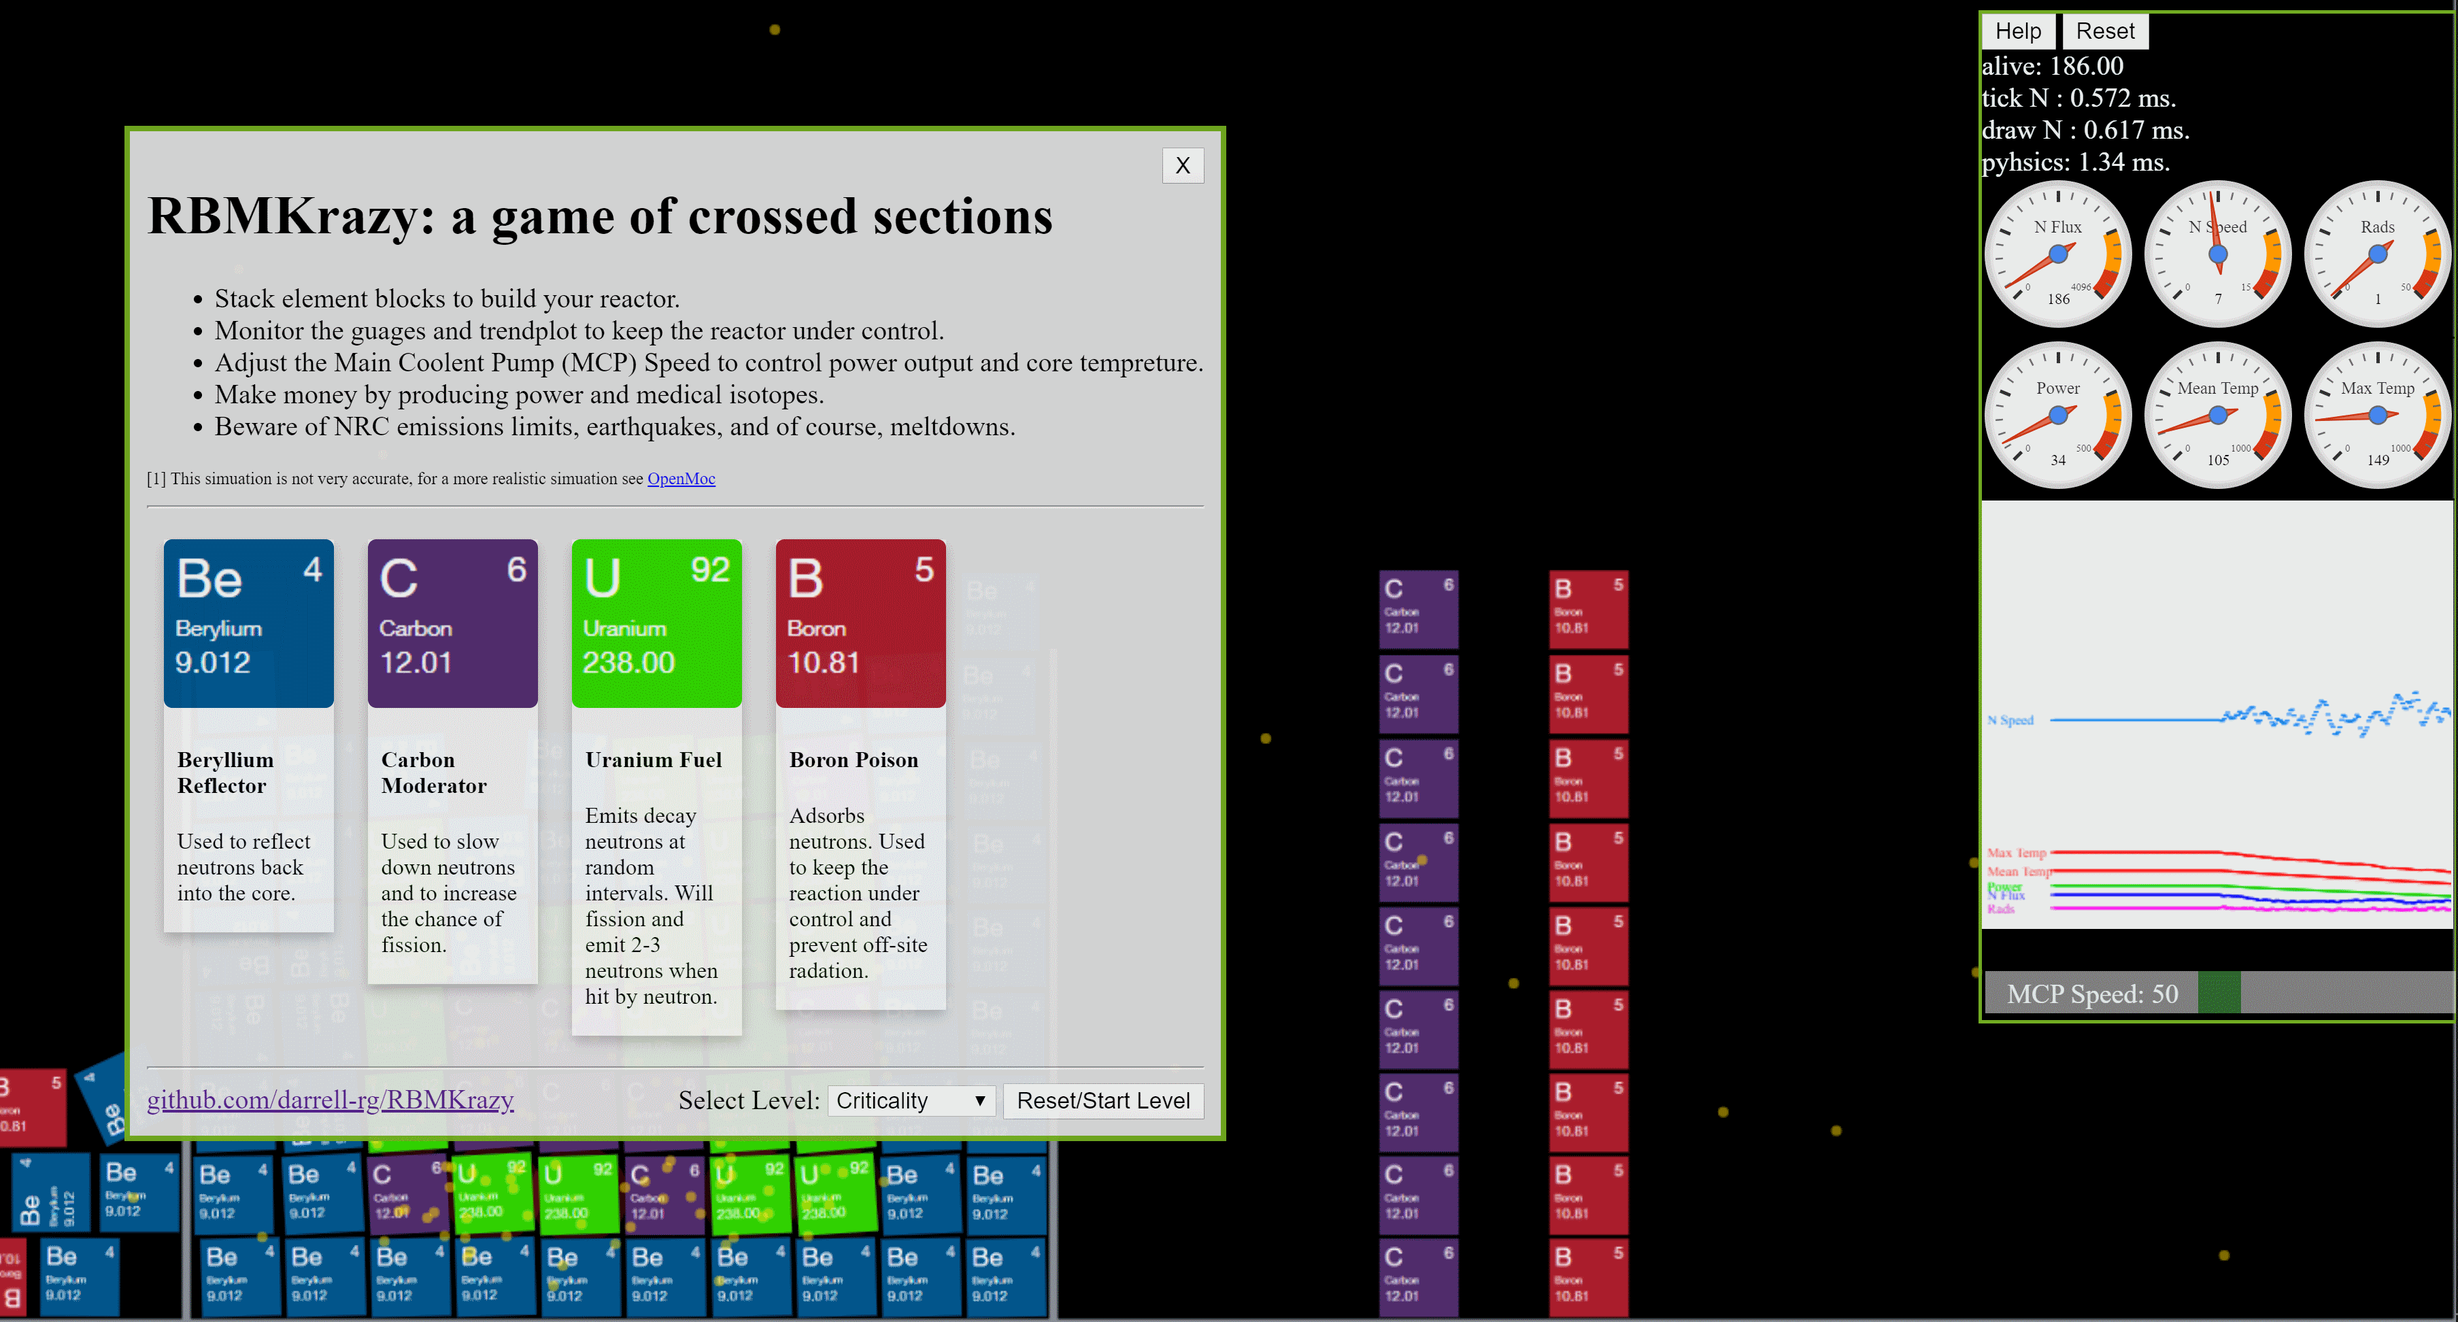
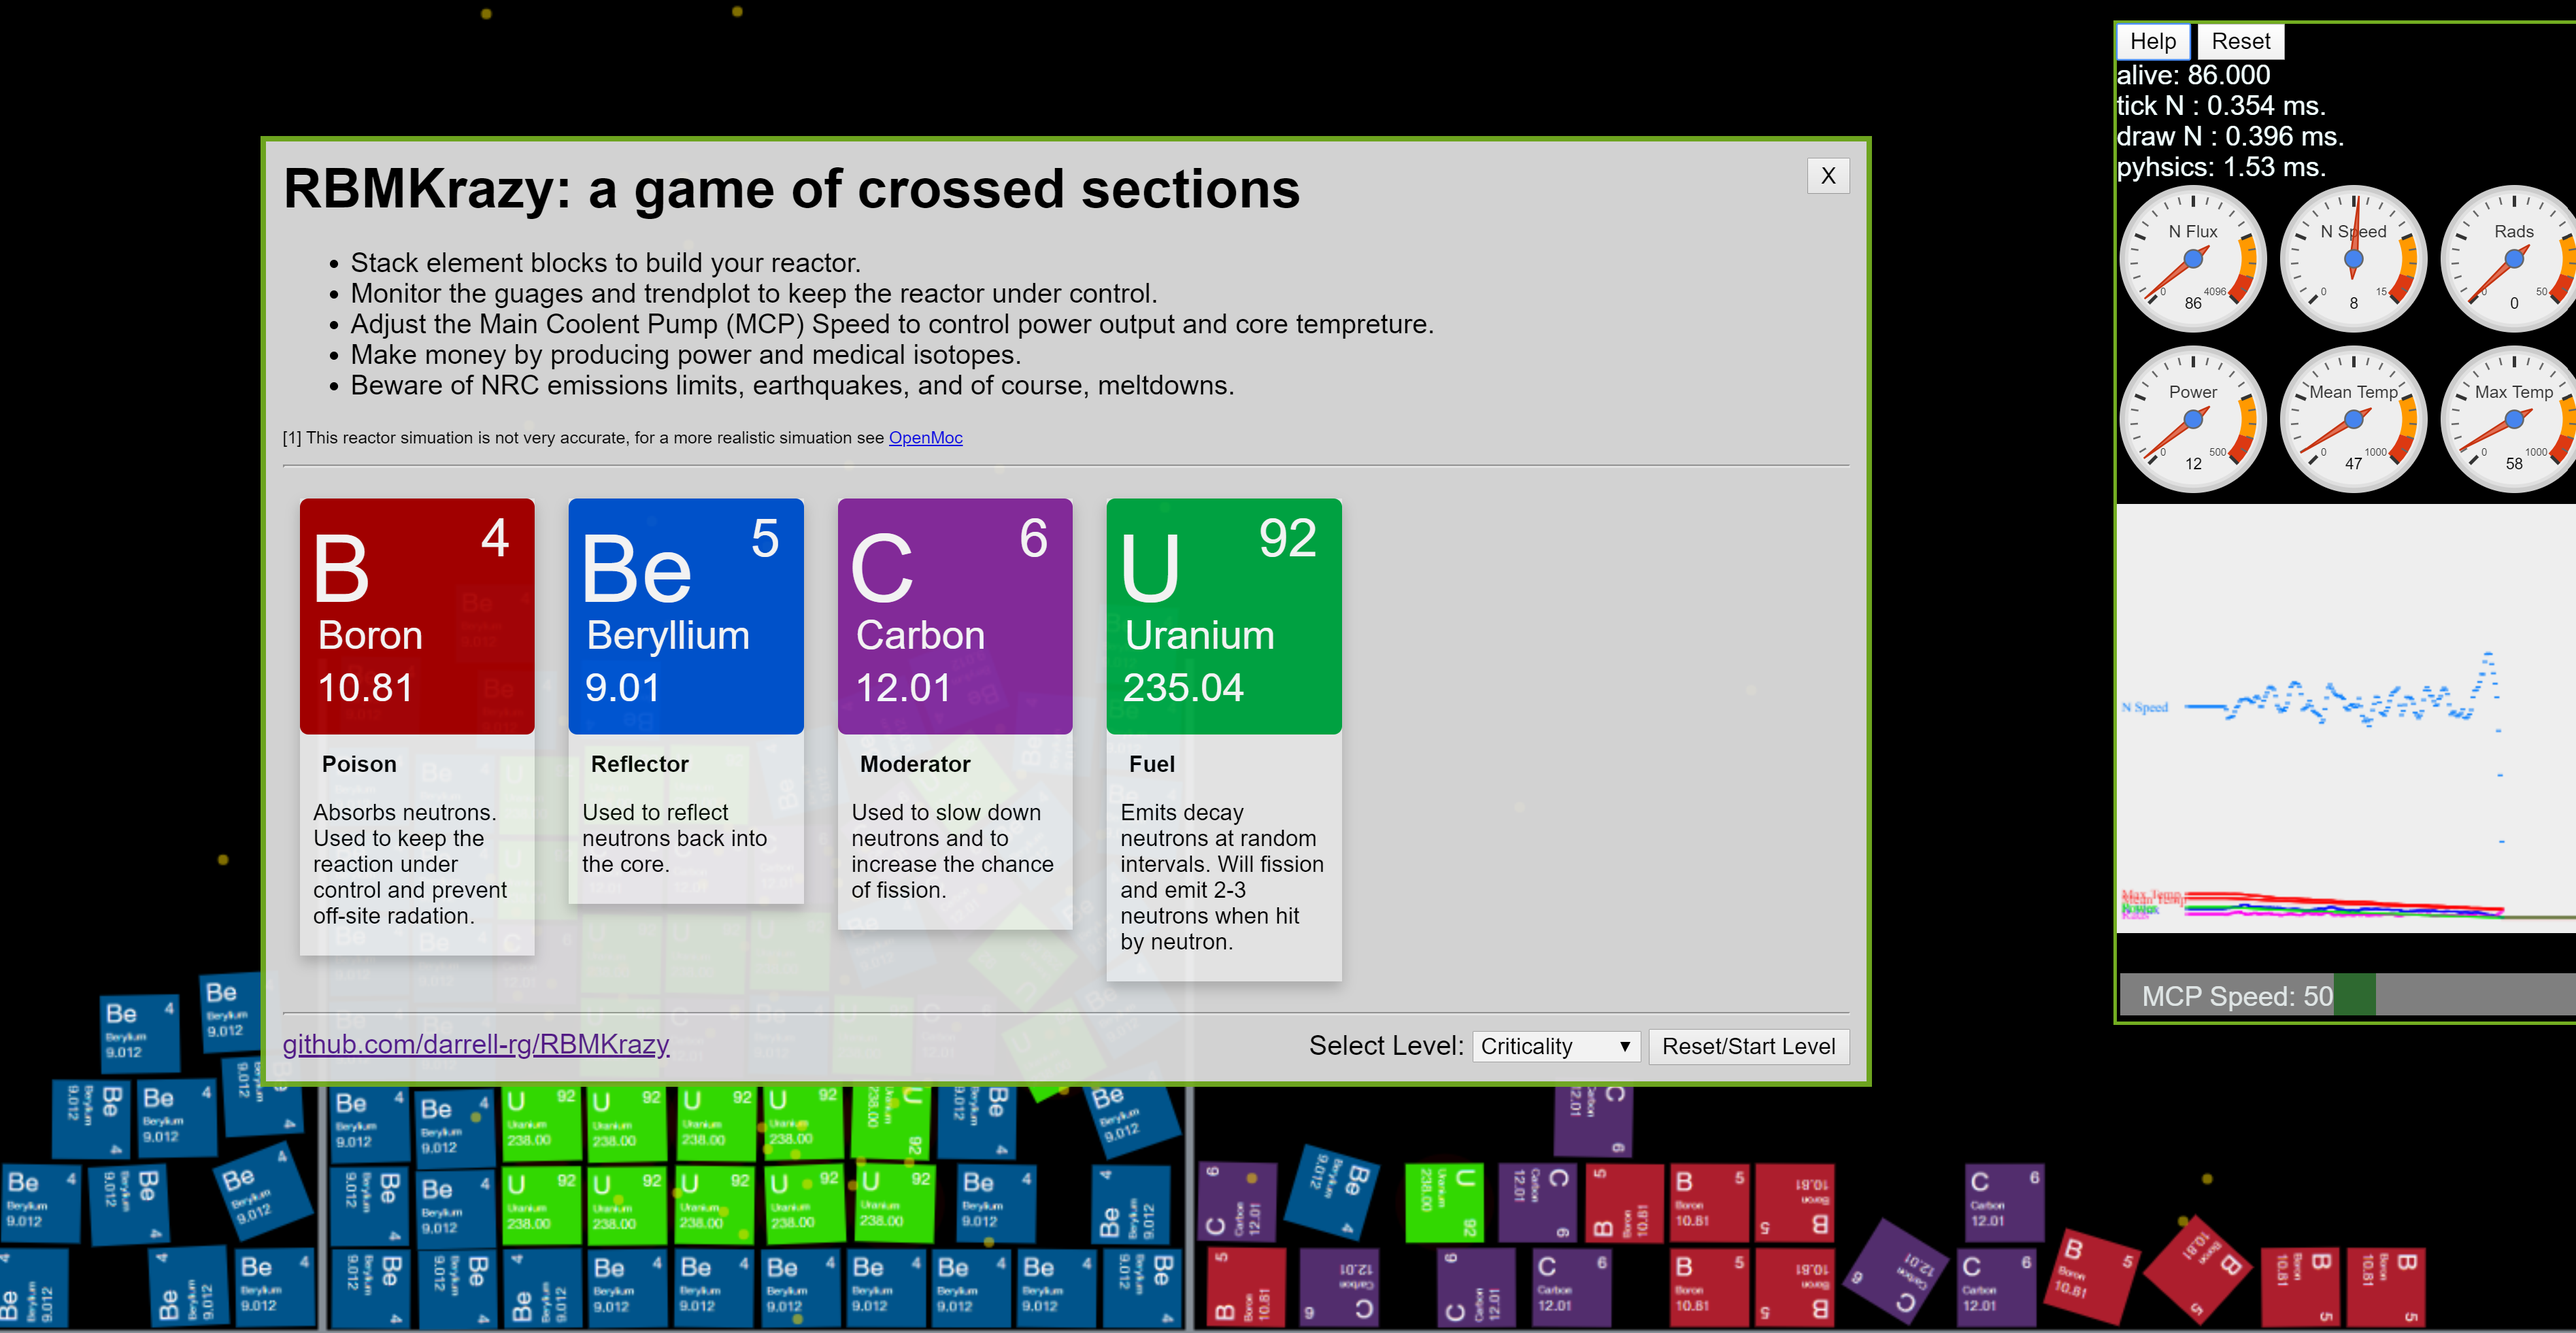
clean up styles

diff --git a/index.html b/index.html
@@ -6,16 +6,12 @@
     <title>Reactor Game</title>
     <style>
         body {
-
             overflow: hidden;
             /* hide scrollbars */
             color: bisque;
             background-color: #000;
-            /* padding: 0px;
-            border: 0px;
-            margin: 0px; */
+            font-family: sans-serif;
         }
-
         div.fixed {
             position: fixed;
             top: 10;
@@ -24,7 +20,6 @@
             border: 3px solid #73AD21;
             z-index: 4;
         }
-
         #debugInfo {
             position: fixed;
             top: 10;
@@ -35,8 +30,7 @@
             padding: 0px;
             color: azure;
         }
-
-        #myCanvas {
+        #gameCanvas {
             padding: 0px;
             border: 0px;
             margin: 0px;
@@ -46,21 +40,14 @@
             right: 0;
             /* background-color: black; */
         }
-
         #trendCanvas {
             padding: 0px;
             margin: 0px;
             border: 1px solid #EEE;
             z-index: 1;
-            /* position: fixed; */
             top: 0;
             right: 0;
             /* background-color: black; */
-        }
-
-        .slidecontainer {
-            width: 100%;
-            /* Width of the outside container */
         }
 
         /* The slider itself */
@@ -82,24 +69,23 @@
             /* 0.2 seconds transition on hover */
             transition: opacity .2s;
         }
-
+        .slidecontainer {
+            width: 100%;
+            /* Width of the outside container */
+        }
         /* Mouse-over effects */
         .slider:hover {
             opacity: 0.8;
             /* Fully shown on mouse-over */
         }
-
-
         .sliderDisplay {
             position: relative;
             z-index: -1;
-            top:25px;
-            left:15px;
+            top: 25px;
+            left: 15px;
             width: 100px;
             overflow: hidden;
-        } 
-       
-
+        }
         /* The slider handle (use -webkit- (Chrome, Opera, Safari, Edge) and -moz- (Firefox) to override default look) */
         .slider::-webkit-slider-thumb {
             -webkit-appearance: none;
@@ -138,7 +124,6 @@
             border-bottom: 1px dotted black;
             /* If you want dots under the hoverable text */
         }
-
         /* Tooltip text */
         .tooltip .tooltiptext {
             visibility: hidden;
@@ -148,19 +133,16 @@
             text-align: center;
             padding: 5px 0;
             border-radius: 6px;
-
             /* Position the tooltip text */
             position: absolute;
             z-index: 1;
             bottom: 90%;
             left: 50%;
             margin-left: -60px;
-
             /* Fade in tooltip */
             opacity: 0;
             transition: opacity 0.3s;
         }
-
         /* Tooltip arrow */
         .tooltip .tooltiptext::after {
             content: "";
@@ -172,7 +154,6 @@
             border-style: solid;
             border-color: #555 transparent transparent transparent;
         }
-
         /* Show the tooltip text when you mouse over the tooltip container */
         .tooltip:hover .tooltiptext {
             visibility: visible;
@@ -184,25 +165,23 @@
             float: left;
             box-shadow: 0 4px 8px 0 rgba(0, 0, 0, 0.2);
             transition: 0.3s;
-            width: 100px;
+            width: 15%;
             margin: 10px;
             background-color: #EEE;
             font-size: smaller;
         }
-
+        .card h4 {
+            margin: 5px;
+        }
         .card img {
             border-radius: 5px;
-            /* 5px rounded corners */
-
         }
-
         /* On mouse-over, add a deeper shadow */
         .card:hover {
             box-shadow: 0 8px 16px 0 rgba(0, 0, 0, 0.2);
         }
-
         /* Add some padding inside the card container */
-        .container {
+        .card .container {
             padding: 2px 8px;
         }
 
@@ -219,7 +198,6 @@
         <span id="deathReason" data-value="0"> a bug in the game </span>
         <hr>
         <div style="float:right">
-        
             <input type="button" value="Try Again" onclick="reset();">
         </div>
 
@@ -229,7 +207,7 @@
         <div style="float:right">
             <input type="button" value="X" onclick="hideModals();">
         </div>
-        <h1>RBMKrazy: a game of crossed sections</h1>
+        <h1 style="margin: 0px;">RBMKrazy: a game of crossed sections</h1>
         <ul>
             <li>Stack element blocks to build your reactor. </li>
             <li>Monitor the guages and trendplot to keep the reactor under control. </li>
@@ -237,11 +215,11 @@
             <li>Make money by producing power and medical isotopes. </li>
             <li>Beware of NRC emissions limits, earthquakes, and of course, meltdowns.</li>
         </ul>
-           
+
         </p>
 
         <div class="footer" style="font-size:x-small">
-            <p id="note1">[1] This simuation is not very accurate, for a more realistic simuation see
+            <p id="note1">[1] This reactor simuation is not very accurate, for a more realistic simuation see
                 <a href="https://github.com/mit-crpg/OpenMOC">OpenMoc</a>
             </p>
         </div>
@@ -250,9 +228,17 @@
         <div class="elemetCards">
 
             <div class="card">
+                <img src="img/B.svg" alt="Boron " style="width:100%">
+                <div class="container">
+                    <h4>Poison</h4>
+                    <p>Absorbs neutrons. Used to keep the reaction under control and prevent off-site radation.</p>
+                </div>
+            </div>
+
+            <div class="card">
                 <img src="img/Be.svg" alt="Beryllium " style="width:100%">
                 <div class="container">
-                    <h4><b>Beryllium</b> Reflector</h4>
+                    <h4>Reflector</h4>
                     <p>Used to reflect neutrons back into the core.</p>
                 </div>
             </div>
@@ -260,7 +246,7 @@
             <div class="card">
                 <img src="img/C.svg" alt="Carbon " style="width:100%">
                 <div class="container">
-                    <h4><b>Carbon</b> Moderator</h4>
+                    <h4>Moderator</h4>
                     <p>Used to slow down neutrons and to increase the chance of fission.</p>
                 </div>
             </div>
@@ -268,27 +254,19 @@
             <div class="card">
                 <img src="img/U.svg" alt="Uranium " style="width:100%">
                 <div class="container">
-                    <h4><b>Uranium</b> Fuel</h4>
+                    <h4>Fuel</h4>
                     <p>Emits decay neutrons at random intervals. Will fission and emit 2-3 neutrons when hit by neutron.
                     </p>
-                </div>
-            </div>
-
-            <div class="card">
-                <img src="img/B.svg" alt="Boron " style="width:100%">
-                <div class="container">
-                    <h4><b>Boron</b> Poison</h4>
-                    <p>Adsorbs neutrons. Used to keep the reaction under control and prevent off-site radation.</p>
                 </div>
             </div>
         </div>
         <div style="clear:both;"></div>
 
         <hr>
-        <div style="float:left"> 
-             <a href="https://github.com/darrell-rg/RBMKrazy">github.com/darrell-rg/RBMKrazy</a>
-            
-            </div>
+        <div style="float:left">
+            <a href="https://github.com/darrell-rg/RBMKrazy">github.com/darrell-rg/RBMKrazy</a>
+
+        </div>
         <div style="float:right">
             Select Level:
             <select id="levelSelect">
@@ -303,7 +281,7 @@
 
     </div>
 
-    <canvas id="myCanvas" width="800" height="700"></canvas>
+    <canvas id="gameCanvas" width="800" height="700"></canvas>
     <div id="debugInfo">
 
         <input type="button" value="Help" onclick="showHelp();">
@@ -321,27 +299,27 @@
         <span id="neutron_speedGaugeContainer" data-value="0" class="tooltip">
             <span class="tooltiptext">Slow neutrons increase the chance of fission</span>
         </span>
-        <span id="radGaugeContainer" data-value="0" class="tooltip">     
+        <span id="radGaugeContainer" data-value="0" class="tooltip">
             <span class="tooltiptext">Radation emited offsite</span>
-       </span>
+        </span>
         <div></div>
-        <span id="powerGaugeContainer" data-value="0"  class="tooltip">
+        <span id="powerGaugeContainer" data-value="0" class="tooltip">
 
         </span>
-    </span>
+        </span>
         <span id="meanFuelTempGaugeContainer" data-value="0" class="tooltip">
             <span class="tooltiptext">Avg tempreture of fuel elements</span>
         </span>
         <span id="maxFuelTempGaugeContainer" data-value="0" class="tooltip">
-            <span class="tooltiptext">Max tempreture of fuel elements</span> 
+            <span class="tooltiptext">Max tempreture of fuel elements</span>
         </span>
         <div id="thermo"></div>
         <canvas id="trendCanvas" width="250" height="250"></canvas>
         <div class="slidecontainer">
-            <span class='sliderDisplay'  id="mcp_display">MCP Speed: 50</span>
+            <span class='sliderDisplay' id="mcp_display">MCP Speed: 50</span>
             <input type="range" min="1" max="100" value="50" class="slider" id="mcp_speed">
 
-        </span>
+            </span>
         </div>
     </div>
     <h1>Game Paused</h1>
@@ -361,7 +339,7 @@
         // Update the current slider value (each time you drag the slider handle)
         mcp_slider.oninput = function () {
             var output = document.getElementById("mcp_display");
-            output.innerHTML = "MCP Speed: " +  this.value;
+            output.innerHTML = "MCP Speed: " + this.value;
         }
 
 
@@ -377,7 +355,7 @@
 
         function showHelp() {
             stopSim();
-            document.getElementById("help").hidden = false;            
+            document.getElementById("help").hidden = false;
         }
 
 
@@ -387,10 +365,9 @@
             document.getElementById("gameOver").hidden = false;
         }
 
-        function reset()
-        {
+        function reset() {
             initStacks();
-            hideModals(); 
+            hideModals();
         }
 
         function initializeSim() {

diff --git a/reactorMatterSim.js b/reactorMatterSim.js
@@ -3,7 +3,7 @@ This is the main code for the simulation and rendering
 
 */
 "use strict";
-let canvas = document.getElementById("myCanvas");
+let canvas = document.getElementById("gameCanvas");
 let context = canvas.getContext("2d");
 let HEIGHT = context.canvas.clientHeight;
 let WIDTH = context.canvas.clientWidth;
